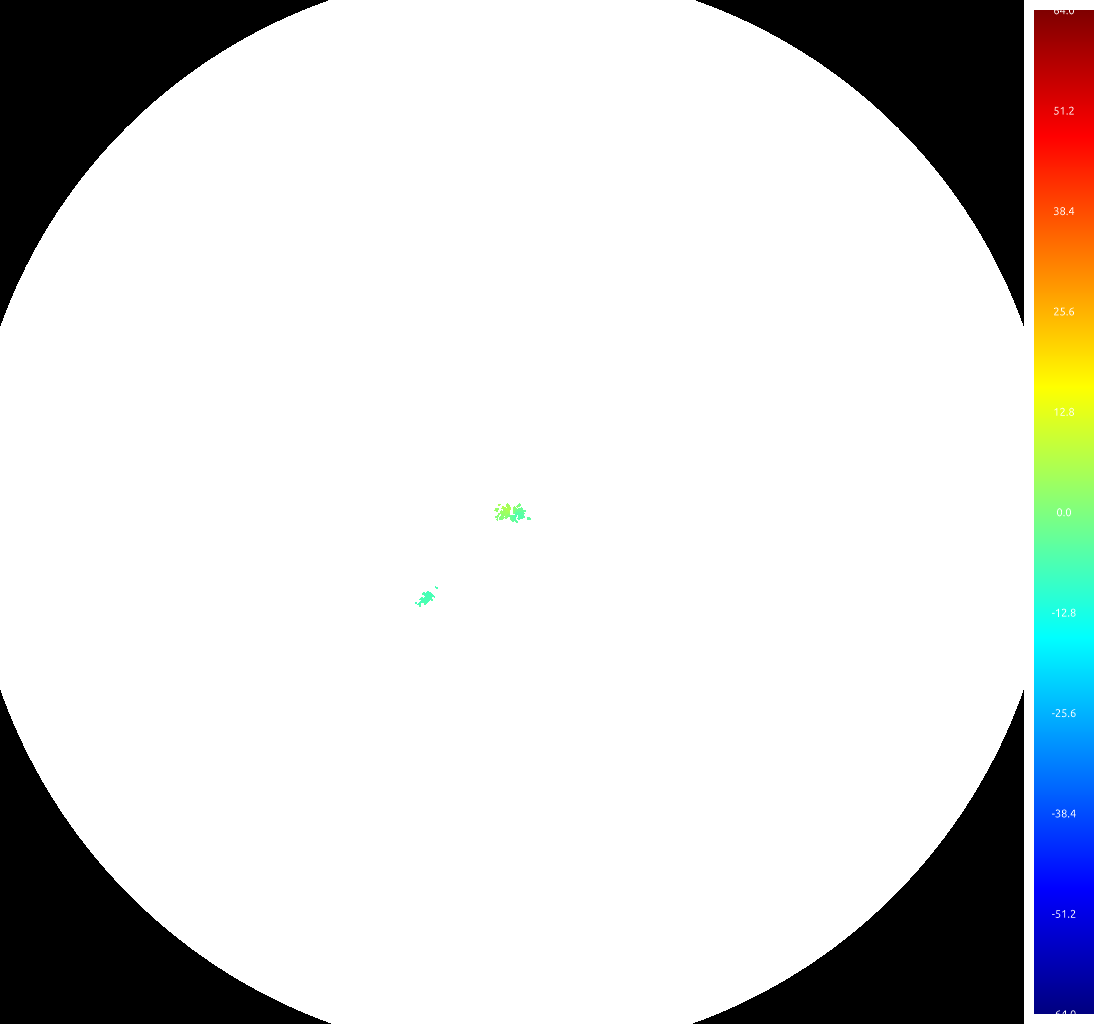
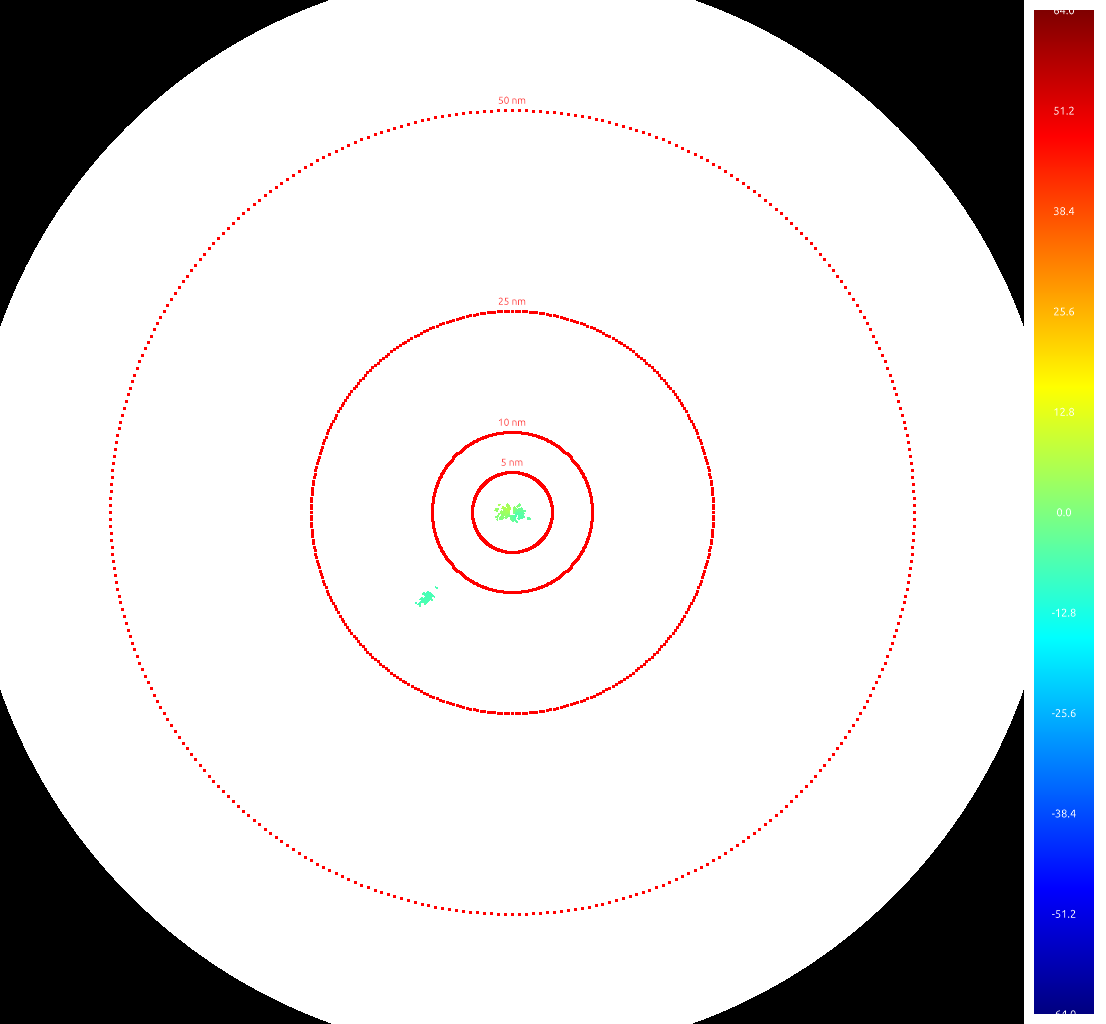
Enhance ImageWriter class to include functionality for drawing range rings on both PNG and SVG images. Update Save methods to accept radar location and grid specifications, allowing for improved visualization of radar data. Modify dataset tests to validate new range ring features.

diff --git a/RadarMoves.Server/Dataset/ImageWriter.cs b/RadarMoves.Server/Dataset/ImageWriter.cs
@@ -72,6 +72,187 @@ public class ImageWriter(float[,] data) {
     // Convert Rgba32 to hex color string for SVG
     private static string ColorToHex(Rgba32 color) => $"#{color.R:X2}{color.G:X2}{color.B:X2}";
 
+    // Draw range rings on PNG image
+    private static void DrawRangeRingsPNG(Image<Rgba32> image, float radarLat, float radarLon, EWRPolarScan.GridSpec gridSpec, int imageDataWidth, int imageDataHeight) {
+        // Range rings in nautical miles
+        float[] rangeRingsNm = [5f, 10f, 25f, 50f];
+
+        // Convert nautical miles to meters (1 nautical mile = 1852 meters)
+        const float nmToMeters = 1852f;
+        // Approximate degrees per meter: 1 degree latitude ≈ 111,000 meters
+        // For longitude, it varies with latitude: 1 degree longitude ≈ 111,000 * cos(latitude) meters
+        const float metersPerDegreeLat = 111000f;
+
+        // Calculate radar center position in pixels (only on main image area, not color bar)
+        float centerX = (radarLon - gridSpec.LonMin) / gridSpec.LonRes;
+        float centerY = (gridSpec.LatMax - radarLat) / gridSpec.LatRes; // y=0 is top (north)
+
+        // Validate center is within bounds
+        if (float.IsNaN(centerX) || float.IsNaN(centerY) || float.IsInfinity(centerX) || float.IsInfinity(centerY)) {
+            return; // Invalid center, skip drawing
+        }
+
+        // Semi-transparent red color for range rings (alpha = 180/255 ≈ 70% opacity)
+        // Using fully opaque for debugging - will make semi-transparent after verification
+        var red = new Rgba32(255, 0, 0, 255);
+
+        // First, draw all the circles directly on the image (outside Mutate block)
+        foreach (float rangeNm in rangeRingsNm) {
+            float rangeMeters = rangeNm * nmToMeters;
+            // Convert to degrees (use latitude for approximation, longitude will be similar at mid-latitudes)
+            float rangeDegreesLat = rangeMeters / metersPerDegreeLat;
+            float rangeDegreesLon = rangeMeters / (metersPerDegreeLat * MathF.Cos(radarLat * MathF.PI / 180f));
+
+            // Calculate radius in pixels (use average of lat/lon conversions)
+            float radiusPixelsLat = rangeDegreesLat / gridSpec.LatRes;
+            float radiusPixelsLon = rangeDegreesLon / gridSpec.LonRes;
+            float radiusPixels = (radiusPixelsLat + radiusPixelsLon) / 2f;
+
+            // Validate radius
+            if (float.IsNaN(radiusPixels) || float.IsInfinity(radiusPixels) || radiusPixels <= 0) {
+                continue; // Skip invalid radius
+            }
+
+            // Draw circle using Bresenham-like algorithm
+            int radius = (int)Math.Round(radiusPixels);
+            int cx = (int)Math.Round(centerX);
+            int cy = (int)Math.Round(centerY);
+
+            // Only draw if center is within reasonable bounds (allow some margin for large rings)
+            if (cx < -imageDataWidth || cx > imageDataWidth * 2 || cy < -imageDataHeight || cy > imageDataHeight * 2) {
+                continue; // Skip this ring if center is way out of bounds
+            }
+
+            // Draw thin circle outline (single pixel width, but draw 2 pixels for visibility)
+            for (int angle = 0; angle < 360; angle++) {
+                double angleRad = angle * Math.PI / 180.0;
+                int x = cx + (int)Math.Round(radius * Math.Cos(angleRad));
+                int y = cy + (int)Math.Round(radius * Math.Sin(angleRad));
+
+                // Only draw on main image area (not color bar)
+                // Draw a 2x2 pixel block for better visibility
+                for (int dx = -1; dx <= 1; dx++) {
+                    for (int dy = -1; dy <= 1; dy++) {
+                        int px = x + dx;
+                        int py = y + dy;
+                        if (px >= 0 && px < imageDataWidth && py >= 0 && py < imageDataHeight) {
+                            // For debugging: use fully opaque red
+                            // Later: blend with existing pixel for transparency
+                            image[px, py] = red;
+                        }
+                    }
+                }
+            }
+        }
+
+        // Then, add text labels using Mutate (for font rendering)
+        try {
+            var fontCollection = new FontCollection();
+            fontCollection.AddSystemFonts();
+            FontFamily fontFamily;
+            if (fontCollection.Families.Any()) {
+                fontFamily = fontCollection.Families.First();
+            } else {
+                fontFamily = fontCollection.Add("Arial");
+            }
+            var font = fontFamily.CreateFont(10, FontStyle.Bold);
+
+            image.Mutate(ctx => {
+                foreach (float rangeNm in rangeRingsNm) {
+                    float rangeMeters = rangeNm * nmToMeters;
+                    float rangeDegreesLat = rangeMeters / metersPerDegreeLat;
+                    float rangeDegreesLon = rangeMeters / (metersPerDegreeLat * MathF.Cos(radarLat * MathF.PI / 180f));
+
+                    float radiusPixelsLat = rangeDegreesLat / gridSpec.LatRes;
+                    float radiusPixelsLon = rangeDegreesLon / gridSpec.LonRes;
+                    float radiusPixels = (radiusPixelsLat + radiusPixelsLon) / 2f;
+
+                    int radius = (int)Math.Round(radiusPixels);
+                    int cx = (int)Math.Round(centerX);
+                    int cy = (int)Math.Round(centerY);
+
+                    // Add label at the top of the ring (north, angle = -90 degrees)
+                    double labelAngleRad = -90.0 * Math.PI / 180.0; // Top (north)
+                    float labelX = cx + (float)(radius * Math.Cos(labelAngleRad));
+                    float labelY = cy + (float)(radius * Math.Sin(labelAngleRad)) - 5; // Offset slightly above ring
+
+                    string labelText = $"{rangeNm:F0} nm";
+                    var textOptions = new RichTextOptions(font) {
+                        Origin = new PointF(labelX, labelY),
+                        HorizontalAlignment = HorizontalAlignment.Center,
+                        VerticalAlignment = VerticalAlignment.Bottom
+                    };
+                    // Use semi-transparent red color (alpha = 180/255 ≈ 70% opacity)
+                    var labelColor = new Color(new Rgba32(255, 0, 0, 180));
+                    ctx.DrawText(textOptions, labelText, labelColor);
+                }
+            });
+        } catch {
+            // If font rendering fails, labels are skipped but rings are already drawn
+        }
+    }
+
+    // Draw range rings on SVG image
+    private static void DrawRangeRingsSVG(XElement svgRoot, XNamespace svgNs, float radarLat, float radarLon,
+        EWRPolarScan.GridSpec gridSpec, int cellSize) {
+        // Range rings in nautical miles
+        float[] rangeRingsNm = [5f, 10f, 25f, 50f];
+
+        // Convert nautical miles to meters (1 nautical mile = 1852 meters)
+        const float nmToMeters = 1852f;
+        // Approximate degrees per meter: 1 degree latitude ≈ 111,000 meters
+        const float metersPerDegreeLat = 111000f;
+
+        // Calculate radar center position in pixels (scaled by cellSize)
+        float centerX = (radarLon - gridSpec.LonMin) / gridSpec.LonRes * cellSize;
+        float centerY = (gridSpec.LatMax - radarLat) / gridSpec.LatRes * cellSize; // y=0 is top (north)
+
+        foreach (float rangeNm in rangeRingsNm) {
+            float rangeMeters = rangeNm * nmToMeters;
+            // Convert to degrees (use latitude for approximation, longitude will be similar at mid-latitudes)
+            float rangeDegreesLat = rangeMeters / metersPerDegreeLat;
+            float rangeDegreesLon = rangeMeters / (metersPerDegreeLat * MathF.Cos(radarLat * MathF.PI / 180f));
+
+            // Calculate radius in pixels (scaled by cellSize)
+            float radiusPixelsLat = (rangeDegreesLat / gridSpec.LatRes) * cellSize;
+            float radiusPixelsLon = (rangeDegreesLon / gridSpec.LonRes) * cellSize;
+            float radiusPixels = (radiusPixelsLat + radiusPixelsLon) / 2f;
+
+            // Create circle element with thin, semi-transparent stroke
+            XElement circle = new(
+                svgNs + "circle",
+                new XAttribute("cx", centerX),
+                new XAttribute("cy", centerY),
+                new XAttribute("r", radiusPixels),
+                new XAttribute("fill", "none"),
+                new XAttribute("stroke", "red"),
+                new XAttribute("stroke-width", "1"),
+                new XAttribute("stroke-opacity", "0.7")
+            );
+            svgRoot.Add(circle);
+
+            // Add label at the top of the ring (north, angle = -90 degrees)
+            double labelAngleRad = -90.0 * Math.PI / 180.0; // Top (north)
+            float labelX = centerX + (float)(radiusPixels * Math.Cos(labelAngleRad));
+            float labelY = centerY + (float)(radiusPixels * Math.Sin(labelAngleRad)) - 5; // Offset slightly above ring
+
+            string labelText = $"{rangeNm:F0} nm";
+            XElement text = new(
+                svgNs + "text",
+                new XAttribute("x", labelX),
+                new XAttribute("y", labelY),
+                new XAttribute("fill", "red"),
+                new XAttribute("fill-opacity", "0.7"),
+                new XAttribute("font-size", "10"),
+                new XAttribute("font-weight", "bold"),
+                new XAttribute("text-anchor", "middle"),
+                new XAttribute("dominant-baseline", "bottom"),
+                labelText
+            );
+            svgRoot.Add(text);
+        }
+    }
+
     // Find min/max values in the data array (ignoring NaNs and NoDataValue)
     private static (float min, float max, float range) GetNormalizationRange(float[,] data) {
         int height = data.GetLength(0);
@@ -93,47 +274,50 @@ public class ImageWriter(float[,] data) {
         if (range == 0) range = 1f;
         return (min, max, range);
     }
-    public void Save(string filePath) {
-        Save(filePath, null);
+    public void Save(string filePath, float? radarLat = null, float? radarLon = null, EWRPolarScan.GridSpec? gridSpec = null) {
+        Save(filePath, null, radarLat, radarLon, gridSpec);
     }
 
     /// <summary>
     /// Saves the image using standard thresholds for the specified channel.
     /// </summary>
-    public void Save(string filePath, Channel? channel) {
+    public void Save(string filePath, Channel? channel, float? radarLat = null, float? radarLon = null, EWRPolarScan.GridSpec? gridSpec = null) {
         if (filePath.EndsWith(".png")) {
             if (channel.HasValue) {
-                SavePNG(filePath, channel.Value);
+                SavePNG(filePath, channel.Value, true, radarLat, radarLon, gridSpec);
             } else {
-                SavePNG(filePath);
+                SavePNG(filePath, true, radarLat, radarLon, gridSpec);
             }
         } else if (filePath.EndsWith(".svg")) {
             if (channel.HasValue) {
-                SaveSVG(filePath, channel.Value);
+                SaveSVG(filePath, channel.Value, 5, true, radarLat, radarLon, gridSpec);
             } else {
-                SaveSVG(filePath);
+                SaveSVG(filePath, 5, true, radarLat, radarLon, gridSpec);
             }
         } else {
             throw new ArgumentException("Invalid file extension. Must be .png or .svg.");
         }
     }
 
-    public void SavePNG(string filePath, bool includeColorBar = true) {
-        SavePNG(filePath, null, null, includeColorBar);
+    public void SavePNG(string filePath, bool includeColorBar = true,
+        float? radarLat = null, float? radarLon = null, EWRPolarScan.GridSpec? gridSpec = null) {
+        SavePNG(filePath, null, null, includeColorBar, radarLat, radarLon, gridSpec);
     }
 
     /// <summary>
     /// Saves the image as PNG using standard thresholds for the specified channel.
     /// </summary>
-    public void SavePNG(string filePath, Channel channel, bool includeColorBar = true) {
+    public void SavePNG(string filePath, Channel channel, bool includeColorBar = true,
+        float? radarLat = null, float? radarLon = null, EWRPolarScan.GridSpec? gridSpec = null) {
         var threshold = ImageThreshold.Get(channel);
-        SavePNG(filePath, threshold.ValueMin, threshold.ValueMax, includeColorBar);
+        SavePNG(filePath, threshold.ValueMin, threshold.ValueMax, includeColorBar, radarLat, radarLon, gridSpec);
     }
 
     /// <summary>
     /// Saves the image as PNG with explicit min/max values for normalization.
     /// </summary>
-    public void SavePNG(string filePath, float? minValue, float? maxValue, bool includeColorBar = true) {
+    public void SavePNG(string filePath, float? minValue, float? maxValue, bool includeColorBar = true,
+        float? radarLat = null, float? radarLon = null, EWRPolarScan.GridSpec? gridSpec = null) {
         float min, max, range;
 
         if (minValue.HasValue && maxValue.HasValue) {
@@ -173,6 +357,11 @@ public class ImageWriter(float[,] data) {
                     image[x, y] = JetColor(t);
                 }
             }
+        }
+
+        // Draw range rings if radar location and grid spec are provided
+        if (radarLat.HasValue && radarLon.HasValue && gridSpec.HasValue) {
+            DrawRangeRingsPNG(image, radarLat.Value, radarLon.Value, gridSpec.Value, Width, Height);
         }
 
         // Draw color bar
@@ -278,22 +467,25 @@ public class ImageWriter(float[,] data) {
 
 
 
-    public void SaveSVG(string filePath, int cellSize = 5, bool includeColorBar = true) {
-        SaveSVG(filePath, cellSize, null, null, includeColorBar);
+    public void SaveSVG(string filePath, int cellSize = 5, bool includeColorBar = true,
+        float? radarLat = null, float? radarLon = null, EWRPolarScan.GridSpec? gridSpec = null) {
+        SaveSVG(filePath, cellSize, null, null, includeColorBar, radarLat, radarLon, gridSpec);
     }
 
     /// <summary>
     /// Saves the image as SVG using standard thresholds for the specified channel.
     /// </summary>
-    public void SaveSVG(string filePath, Channel channel, int cellSize = 5, bool includeColorBar = true) {
+    public void SaveSVG(string filePath, Channel channel, int cellSize = 5, bool includeColorBar = true,
+        float? radarLat = null, float? radarLon = null, EWRPolarScan.GridSpec? gridSpec = null) {
         var threshold = ImageThreshold.Get(channel);
-        SaveSVG(filePath, cellSize, threshold.ValueMin, threshold.ValueMax, includeColorBar);
+        SaveSVG(filePath, cellSize, threshold.ValueMin, threshold.ValueMax, includeColorBar, radarLat, radarLon, gridSpec);
     }
 
     /// <summary>
     /// Saves the image as SVG with explicit min/max values for normalization.
     /// </summary>
-    public void SaveSVG(string filePath, int cellSize, float? minValue, float? maxValue, bool includeColorBar = true) {
+    public void SaveSVG(string filePath, int cellSize, float? minValue, float? maxValue, bool includeColorBar = true,
+        float? radarLat = null, float? radarLon = null, EWRPolarScan.GridSpec? gridSpec = null) {
         // the purpose of the cellSize is to scale the image to the desired size
         float min, max, range;
 
@@ -354,6 +546,11 @@ public class ImageWriter(float[,] data) {
                 );
                 svgRoot.Add(rect);
             }
+        }
+
+        // Draw range rings if radar location and grid spec are provided
+        if (radarLat.HasValue && radarLon.HasValue && gridSpec.HasValue) {
+            DrawRangeRingsSVG(svgRoot, svgNs, radarLat.Value, radarLon.Value, gridSpec.Value, cellSize);
         }
 
         // Draw color bar

diff --git a/RadarMoves.Test/DatasetTests.cs b/RadarMoves.Test/DatasetTests.cs
@@ -84,7 +84,8 @@ public class DatasetTests {
 
             var outfile = Path.Combine(DATA_ROOT, $"Projected{key}.png");
             ImageWriter writer = new(projected);
-            writer.SavePNG(outfile, channel: key);
+            writer.SavePNG(outfile, channel: key, includeColorBar: true, 
+                radarLat: (float)radarLat, radarLon: (float)radarLon, gridSpec: gridSpec);
         }
     }
 
